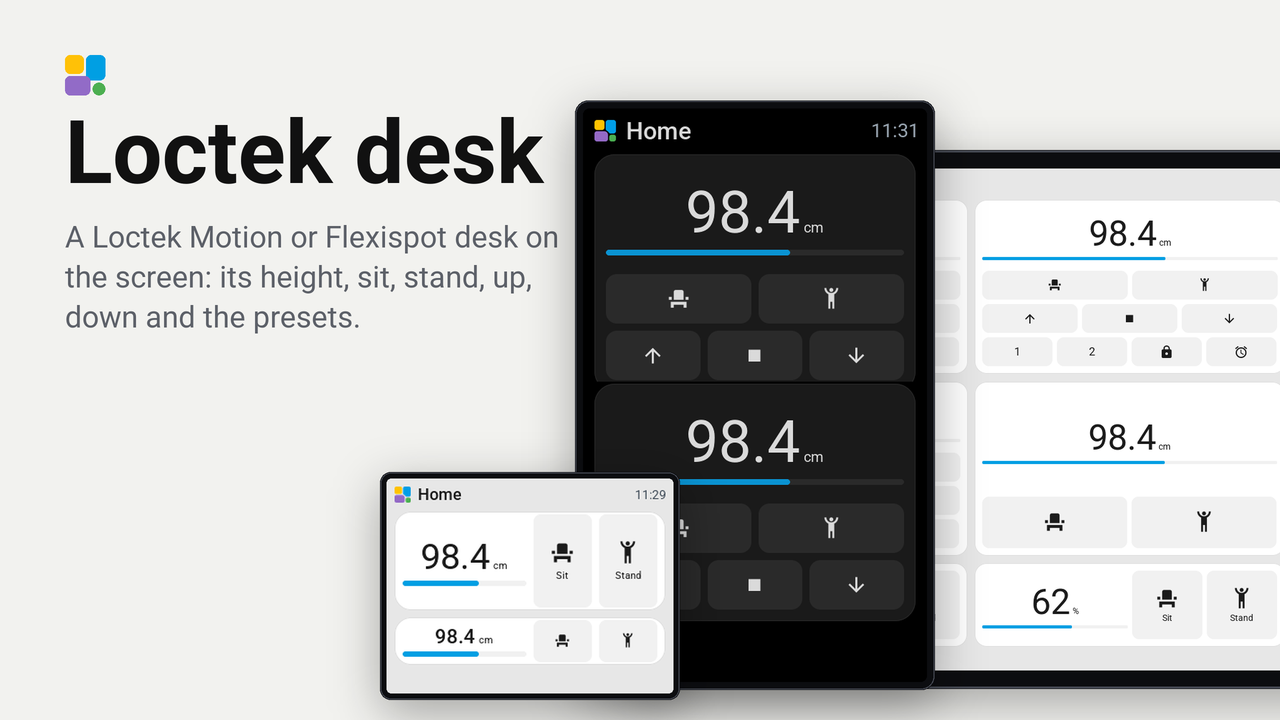
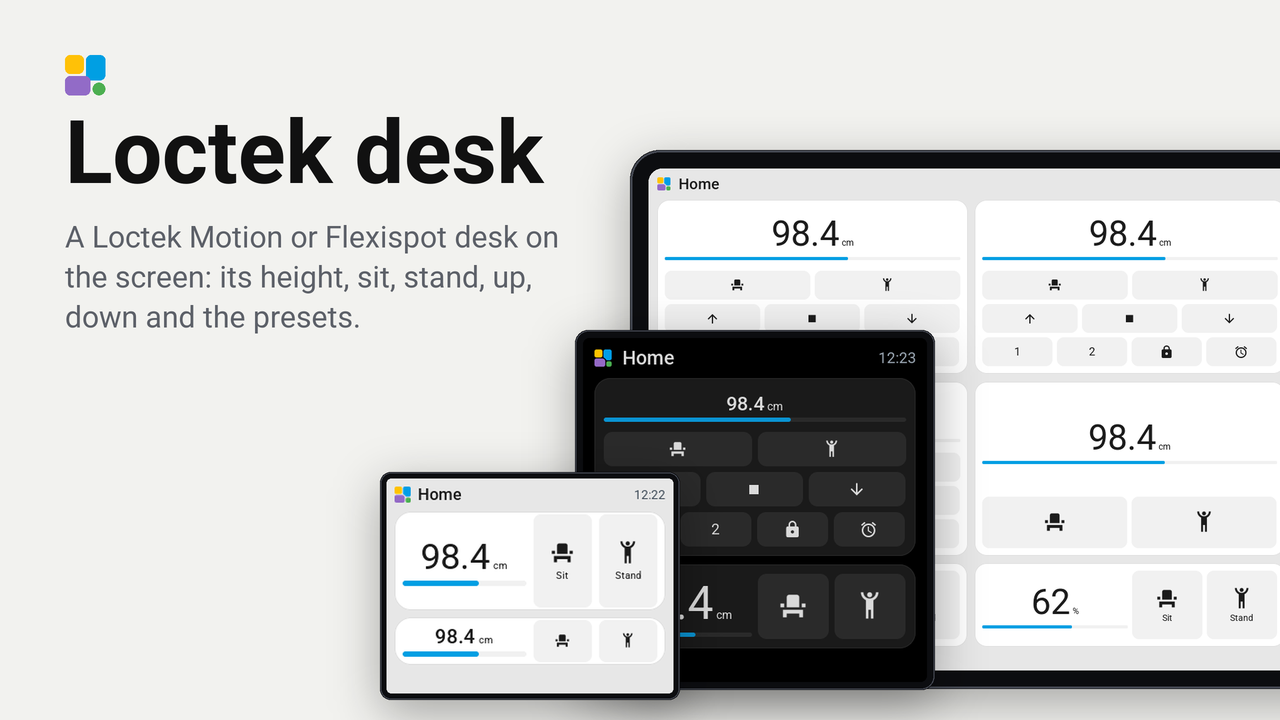
Loctek desk: tight rows where they gain a row, so a 4-inch screen shows all three at 2x2; the store picture with the 4-inch screen

diff --git a/components/loctek_desk/model.cpp b/components/loctek_desk/model.cpp
@@ -124,25 +124,37 @@ Layout lay_out(int w, int h, const Have &have, int gap, int min_key) {
   keep_wide_enough();
   int rh = h;
   if (!wide) {
-    while (nrows > 0) {
-      rh = (h - nrows * gap) / (nrows + 2);
-      if (rh >= min_key) break;
-      --nrows;
-    }
-    // A tile wider than high that the stacked rule leaves without a row: the wide rule, with the first group.
-    if (nrows == 0 && offered > 0 && ng > 0 && w > h) {
-      wide = true;
-      row_w = (w - gap) / 2;
-      rows[0] = groups[0];
-      nrows = 1;
-      keep_wide_enough();
-      rh = h;
+    // Roomy rows leave the block the height of two rows; tight rows are min_key high and leave it at least one.
+    int roomy = nrows, tight = nrows;
+    while (roomy > 0 && (h - roomy * gap) / (roomy + 2) < min_key) --roomy;
+    while (tight > 0 && h - tight * (min_key + gap) < min_key) --tight;
+    if (roomy > 0) {
+      // Tight only where it gains a row.
+      nrows = tight > roomy ? tight : roomy;
+      rh = tight > roomy ? min_key : (h - roomy * gap) / (roomy + 2);
+    } else {
+      // No roomy row. A tile wider than high: the wide rule, with the first group.
+      const Row first = rows[0];
+      const int stacked = nrows;
+      nrows = 0;
+      if (offered > 0 && ng > 0 && w > h && h >= min_key) {
+        row_w = (w - gap) / 2;
+        rows[0] = groups[0];
+        nrows = 1;
+        keep_wide_enough();
+        wide = nrows > 0;
+        rh = h;
+      }
+      // Else tight rows under the block, where one fits.
+      if (!wide) {
+        row_w = w;
+        rows[0] = first;
+        nrows = tight < stacked ? tight : stacked;
+        rh = min_key;
+      }
     }
   }
-  if (wide) {
-    if (nrows > 1) nrows = 1;
-    if (h < min_key) nrows = 0;
-  }
+  if (wide && h < min_key) nrows = 0;
   if (nrows == 0) return l;
   int x0, y0;
   if (wide) {

diff --git a/tests/test_model.cpp b/tests/test_model.cpp
@@ -139,9 +139,23 @@ static void test_layout_flat_falls_back_to_wide() {      // the CYD's 2x2
   assert(l.block.x == 0 && l.block.w == 147 && l.block.h == 110 && find(l, Key::SIT)->r.x == 155);
   inside_and_apart(l, 302, 110, 39);
 }
-static void test_layout_flat_too_narrow() {              // the CYD's 1x2: nothing fits, the tap of a small tile works
+static void test_layout_flat_narrow_gets_a_tight_row() {  // the CYD's 1x2: no room beside the height, one tight row under it
   const Layout l = lay_out(148, 110, all(1, 2), 8, 39);
-  assert(l.count == 0 && l.block.w == 148 && l.block.h == 110);
+  assert(l.count == 2 && find(l, Key::SIT) && find(l, Key::STAND));
+  assert(l.block.w == 148 && l.block.h == 63 && find(l, Key::SIT)->r.y == 71 && find(l, Key::SIT)->r.h == 39);
+  inside_and_apart(l, 148, 110, 39);
+}
+static void test_layout_tight_rows_gain_a_row() {          // a Guition 4-inch at 2x2: three rows only when they are tight
+  const Layout l = lay_out(446, 217, all(2, 2), 8, 47);
+  assert(l.count == 9);
+  assert(l.block.h == 52 && find(l, Key::SIT)->r.h == 47);
+  const Rect a = find(l, Key::ALARM)->r;
+  assert(a.y + a.h == 217);
+  inside_and_apart(l, 446, 217, 47);
+}
+static void test_layout_roomy_rows_stay_roomy() {          // tight rows only where they gain a row
+  const Layout l = lay_out(408, 408, all(2, 2), 8, 40);
+  assert(find(l, Key::SIT)->r.h == 76 && l.block.h == 156);
 }
 static void test_hit() {
   const Layout l = lay_out(408, 408, all(2, 2), 8, 40);
@@ -208,7 +222,9 @@ int main() {
   test_layout_manual_off_only();
   test_layout_smallest_glass();
   test_layout_flat_falls_back_to_wide();
-  test_layout_flat_too_narrow();
+  test_layout_flat_narrow_gets_a_tight_row();
+  test_layout_tight_rows_gain_a_row();
+  test_layout_roomy_rows_stay_roomy();
   test_hit();
   test_services();
   test_small_tap();

diff --git a/components/loctek_desk/model.h b/components/loctek_desk/model.h
@@ -71,9 +71,11 @@ struct Have {
 // The height block and the keys' places inside w x h. min_key is ui::mm(7).
 // Groups {SIT, STAND}, {UP, STOP, DOWN}, {PRESET_1, PRESET_2}, {LOCK, ALARM}; a group without a key does not exist.
 // The size offers rows: 1x1 none, 2x1 one, 1x2 two, 2x2 three (groups 3 and 4 then share one row if all four exist).
-// 2x1: block left, row right, side by side. Else the block on top and the rows under it; a size that offers rows but
-// gets none that way and is wider than high (the CYD's 2x2) takes the 2x1 rule with the first group. A row too low or
-// whose keys would be narrower than min_key is not drawn; with no row the block is the whole tile.
+// 2x1: block left, row right, side by side. Else the block on top and the rows under it. Rows are roomy (the block
+// as high as two of them) unless tight rows (min_key high, the block at least that) gain a row: a Guition 4-inch at
+// 2x2 gets its third row that way. A size that offers rows but has room for no roomy one takes the 2x1 rule with the
+// first group when it is wider than high (the CYD's 2x2), else tight rows. A row whose keys would be narrower than
+// min_key is not drawn; with no row the block is the whole tile.
 Layout lay_out(int w, int h, const Have &have, int gap, int min_key);
 // The key at a point. NONE between keys and on the block.
 Key hit(const Layout &l, int x, int y);

diff --git a/README.de.md b/README.de.md
@@ -41,9 +41,10 @@ Die Tasten kommen in vier Gruppen, in dieser Reihenfolge: Sitzen und Stehen; Hoc
 und Alarm. Eine Gruppe ohne Taste gibt es nicht. Jede Größe füllt ihre Reihen mit den Gruppen in dieser Reihenfolge,
 und Gruppen, die keine Reihe finden, werden nicht gezeichnet.
 
-Eine Kachel, die breiter als hoch ist, etwa 2 x 2 oder 1 x 2 auf einem kleinen Screen wie dem CYD, zeigt links die
-Höhe und rechts eine Reihe Tasten, wenn unter der Höhe keine Reihe passt. Wo gar keine Tasten passen, zeigt die Kachel
-nur die Höhe, und ein Tippen schickt den Tisch ans andere Ende, wie bei 1 x 1.
+Wo nicht alle Reihen passen, werden die Tasten niedriger und die Höhe kleiner, bevor eine Reihe wegfällt: Eine Kachel
+in 2 x 2 auf einem 4"-Screen zeigt so ihre drei Reihen. Auf einem kleinen Screen wie dem CYD zeigt eine Kachel, die
+breiter als hoch ist, links die Höhe und rechts eine Reihe Tasten, wenn unter der Höhe keine Reihe passt. Wo gar keine
+Tasten passen, zeigt die Kachel nur die Höhe, und ein Tippen schickt den Tisch ans andere Ende, wie bei 1 x 1.
 
 Eine Taste wird nie gequetscht: Eine Reihe, die auf einen kleinen Screen nicht passt, entfällt ganz.
 

diff --git a/README.md b/README.md
@@ -39,9 +39,10 @@ The keys come in four groups, in this order: Sit and Stand; Up, Stop and Down; 1
 without a key does not exist. Each size fills its rows with the groups in that order, and the groups that find no
 row are not drawn.
 
-A tile that is wider than high, such as a 2 x 2 or 1 x 2 tile on a small screen like the CYD, shows the height on
-the left and one row of keys on the right when no row fits under the height. Where no keys fit at all, the tile shows
-the height alone, and a tap sends the desk to the other end, as on 1 x 1.
+Where the rows do not all fit, the keys become lower and the height smaller before a row is left out: a 2 x 2 tile
+on a 4" screen shows its three rows that way. On a small screen like the CYD, a tile that is wider than high shows
+the height on the left and one row of keys on the right when no row fits under the height. Where no keys fit at all,
+the tile shows the height alone, and a tap sends the desk to the other end, as on 1 x 1.
 
 A key is never squeezed: a row that does not fit a small screen is left out as a whole.
 
